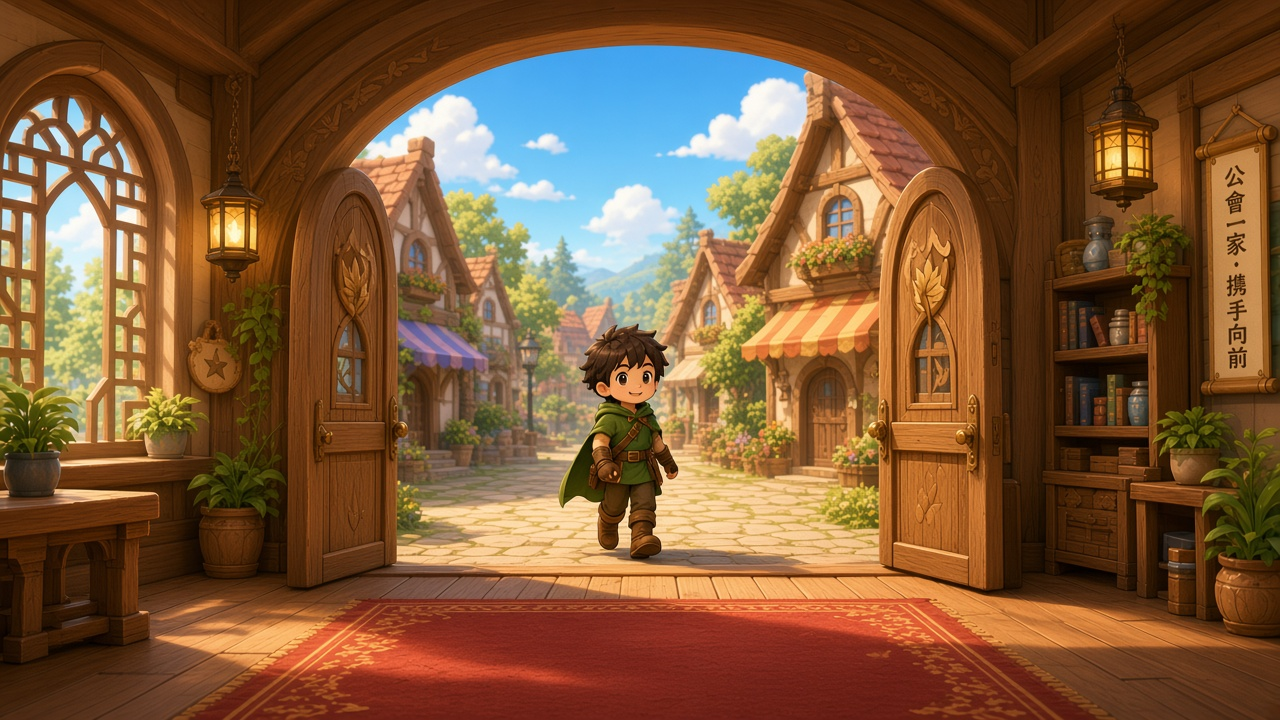
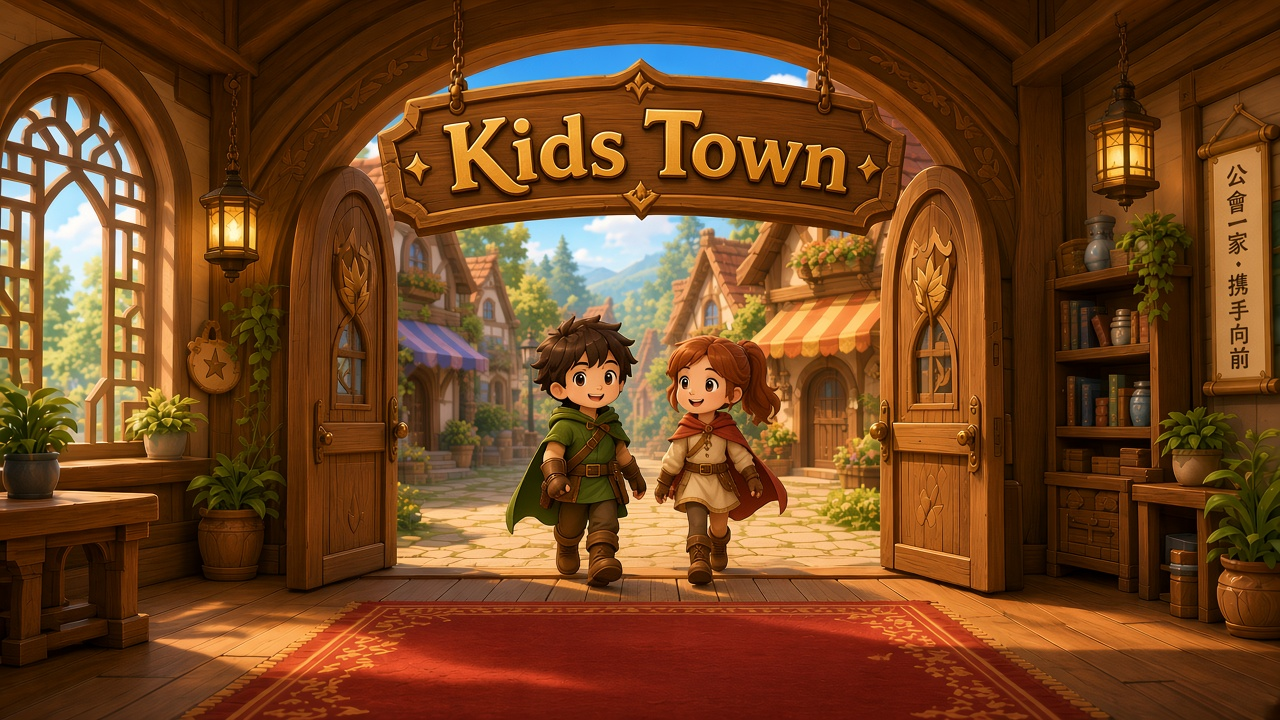
Show both children under the painted Kids Town sign
Replace the login hero with the boy-and-girl welcome scene and drop the separate title card, including 開羅小鎮. The slogan stays with the form.

diff --git a/docs/ui-mocks/login.html b/docs/ui-mocks/login.html
@@ -3,7 +3,7 @@
 <head>
   <meta charset="utf-8">
   <meta name="viewport" content="width=device-width, initial-scale=1">
-  <title>登入 · 開羅小鎮 Kids Town（靜態設計稿）</title>
+  <title>登入 · Kids Town（靜態設計稿）</title>
   <style>
     :root {
       color-scheme: light;
@@ -76,7 +76,7 @@
       height: 100%;
       min-height: 0;
       display: grid;
-      grid-template-rows: minmax(220px, 1fr) auto auto 56px;
+      grid-template-rows: minmax(240px, 1fr) auto 56px;
       gap: 8px;
     }
 
@@ -98,7 +98,7 @@
       width: 100%;
       height: 100%;
       object-fit: cover;
-      object-position: center 40%;
+      object-position: center 26%;
       border-radius: 16px;
       display: block;
       background: #6b4428;
@@ -146,39 +146,6 @@
       outline: 3px solid var(--focus);
       outline-offset: 3px;
       box-shadow: 0 0 0 6px var(--focus-halo), 0 8px 0 rgba(74, 42, 20, 0.18);
-    }
-
-    .titleblock {
-      width: min(920px, 100%);
-      justify-self: center;
-      text-align: center;
-      padding: 6px 18px 8px;
-      background: var(--paper);
-      border: 3px solid var(--line);
-      border-radius: 24px;
-      box-shadow: 0 6px 0 rgba(74, 42, 20, 0.16);
-    }
-
-    .titleblock h1 {
-      margin: 0;
-      color: #6b3a16;
-      font-weight: 800;
-    }
-
-    .en {
-      display: block;
-      font-size: 40px;
-      line-height: 42px;
-      letter-spacing: 0.045em;
-    }
-
-    .zh {
-      display: block;
-      margin-top: 1px;
-      color: #8a5424;
-      font-size: 22px;
-      line-height: 26px;
-      letter-spacing: 0.12em;
     }
 
     .slogan {
@@ -458,7 +425,6 @@
     @media (forced-colors: active) {
       .stage,
       .sheet,
-      .titleblock,
       .hero,
       .field,
       .action,
@@ -495,7 +461,7 @@
             src="art/login-hero.png"
             width="1280"
             height="720"
-            alt="溫暖的公會大廳拱門敞開，望向陽光照耀的小鎮街道。"
+            alt="公會大廳的拱門敞開，木牌寫著 Kids Town，一名男孩與一名女孩走向陽光照耀的小鎮。"
             draggable="false">
           <figcaption aria-hidden="true">
             <span class="pill">概念圖 · 公會歡迎</span>
@@ -503,20 +469,14 @@
           </figcaption>
         </figure>
 
-        <header class="titleblock">
-          <h1>
-            <span class="en">Kids Town</span>
-            <span class="zh">開羅小鎮</span>
-          </h1>
+        <div class="sheet" id="sheet" tabindex="-1">
+          <h1 class="vh">登入</h1>
           <p class="slogan">
             <svg class="leaf" viewBox="0 0 24 24" width="18" height="18" aria-hidden="true">
               <path d="M5 19c8-1 12-8 13-14-6 1-13 5-14 13 3-3 6-4 9-4" fill="none" stroke="#2f8f4a" stroke-width="2" stroke-linecap="round" stroke-linejoin="round"/>
             </svg>
             歡迎回到開心的小鎮
           </p>
-        </header>
-
-        <div class="sheet" id="sheet" tabindex="-1">
           <form class="panel" id="form-kid" data-panel="kid" aria-labelledby="kid-heading">
             <div class="kicker">
               <h2 id="kid-heading">孩子登入</h2>
